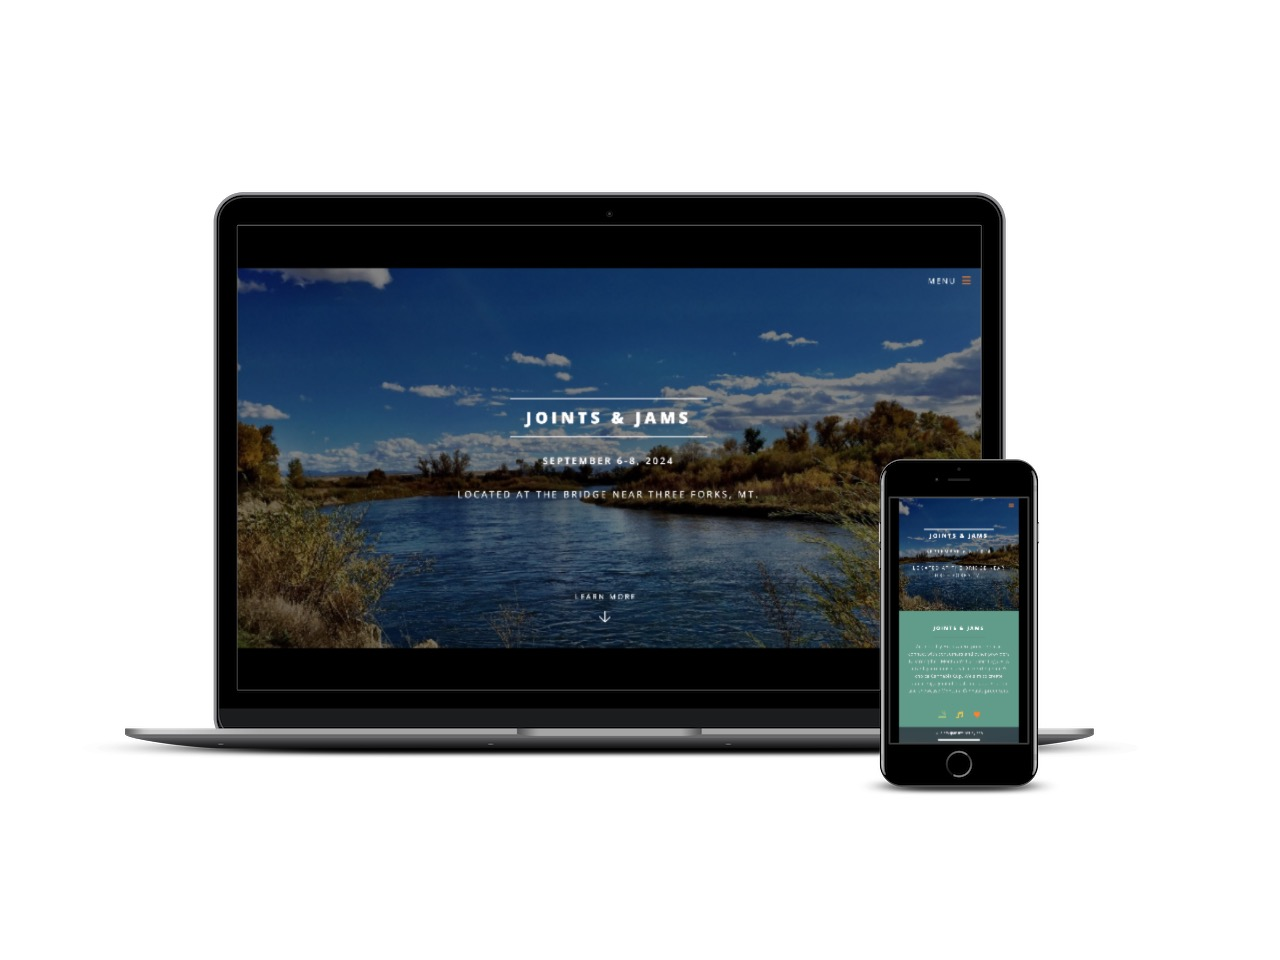
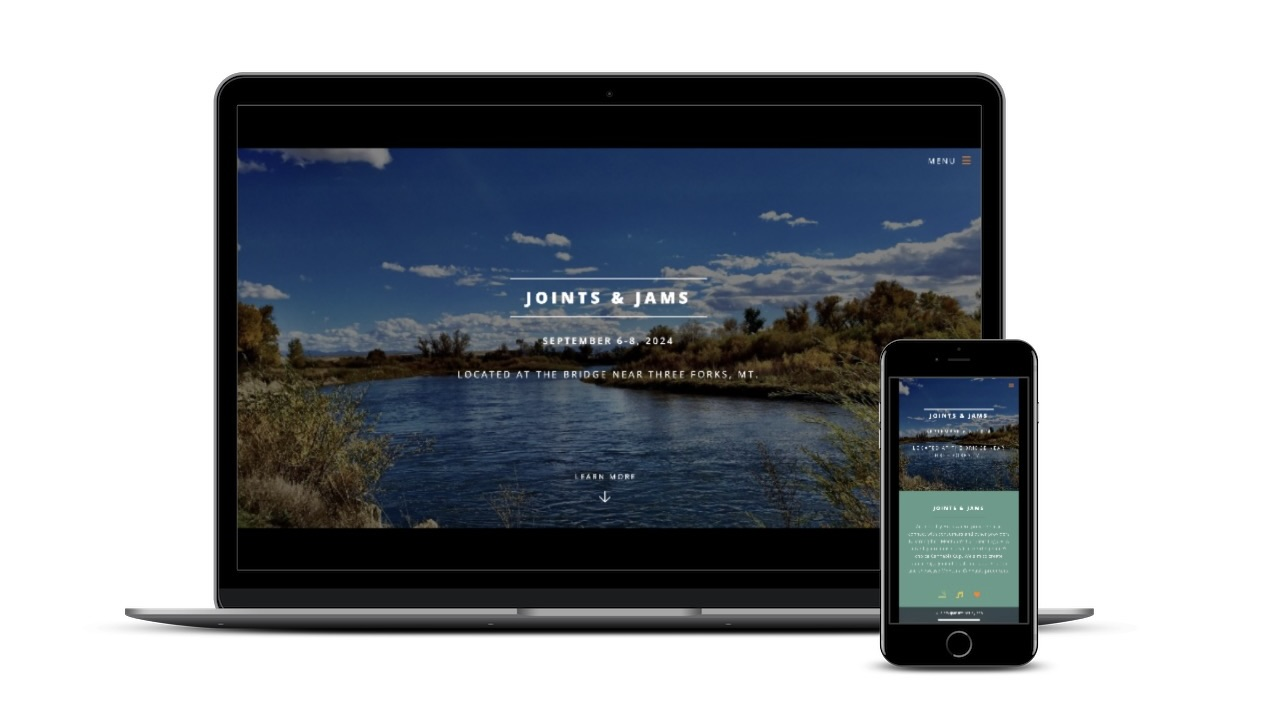
resized images and updated social links

diff --git a/src/components/footer/footer.css b/src/components/footer/footer.css
@@ -1,66 +1,66 @@
 .footer {
-    background-color: var(--container-color);
-    border-top: 1px solid rgba(0, 0, 0, 0.1);
+	background-color: var(--container-color);
+	border-top: 1px solid rgba(0, 0, 0, 0.1);
 }
 
 .footer__container {
-    padding: 2rem 0 6rem;
+	padding: 0.5rem 0 6rem;
 }
 
 .footer__title,
 .footer__link {
-    color: var(--title-color);
+	color: var(--title-color);
 }
 
 .footer__title {
-    text-align: center;
-    margin-bottom: var(--mb-2);
+	text-align: center;
+	margin-bottom: var(--mb-2);
 }
 
 .footer__link:hover {
-    color: var(--title-color-dark);
+	color: var(--title-color-dark);
 }
 
 .footer__list {
-    display: flex;
-    justify-content: center;
-    column-gap: 1.5rem;
-    margin-bottom: var(--mb-2);
+	display: flex;
+	justify-content: center;
+	column-gap: 1.5rem;
+	margin-bottom: var(--mb-2);
 }
 
 .footer__social {
-    display: flex;
-    justify-content: center;
-    column-gap: 1.25rem;
+	display: flex;
+	justify-content: center;
+	column-gap: 1.25rem;
 }
 
 .footer__social-link {
-    background-color: var(--title-color);
-    color: var(--container-color);
-    font-size: 1.125rem;
-    padding: 0.4rem;
-    border-radius: 0.5rem;
-    display: inline-flex;
+	background-color: var(--title-color);
+	color: var(--container-color);
+	font-size: 1.125rem;
+	padding: 0.4rem;
+	border-radius: 0.5rem;
+	display: inline-flex;
 }
 
 .footer__social-link:hover {
-    background-color: var(--title-color-dark);
+	background-color: var(--title-color-dark);
 }
 
 .footer__copy {
-    display: block;
-    margin-top: 4.5rem;
-    color: var(--title-color);
-    text-align: center;
-    font-size: var(--smaller-font-size);
+	display: block;
+	margin-top: 1.5rem;
+	color: var(--title-color);
+	text-align: center;
+	font-size: var(--regular-font-size);
 }
 
 /*=============== BREAKPOINTS ===============*/
 /* For large devices */
 @media screen and (max-width: 992px) {
-    .footer__social-link {
-        padding: 0.25rem;
-        border-radius: 0.25rem;
-        font-size: 1rem;
-    }
-  }
+	.footer__social-link {
+		padding: 0.25rem;
+		border-radius: 0.25rem;
+		font-size: 1rem;
+	}
+}

diff --git a/src/components/home/home.css b/src/components/home/home.css
@@ -59,15 +59,16 @@
 }
 
 .home__img {
-	background: url(../../assets//head-shot.png);
+	background: url(../../assets//bulb.png);
 	background-repeat: no-repeat;
 	background-position: center;
-	background-size: cover;
+	background-position-y: -3rem;
+	background-size: 155%;
 	box-shadow: inset 0 0 0 9px rgb(255 255 255 / 30%);
 	order: 1;
 	justify-self: center;
-	width: 300px;
-	height: 300px;
+	width: 350px;
+	height: 350px;
 	animation: profile__animate 8s ease-in-out infinite 1s;
 }
 

diff --git a/src/components/footer/Footer.jsx b/src/components/footer/Footer.jsx
@@ -37,7 +37,10 @@ const Footer = () => {
 					</a>
 				</div>
 
-				<span className="footer__copy">&#169;2022 Curran Concepts</span>
+				<span className="footer__copy">
+					<i className="uil uil-envelope"></i> Email:
+					austin.curran@proton.me
+				</span>
 			</div>
 		</footer>
 	);

diff --git a/src/components/home/Social.jsx b/src/components/home/Social.jsx
@@ -26,6 +26,14 @@ const Social = () => {
 			>
 				<i className="uil uil-twitter"></i>
 			</a>
+
+			<a
+				href="mailto:austin.curran@proton.me"
+				className="home__social-icon"
+				target="_blank"
+			>
+				<i className="uil uil-envelope"></i>
+			</a>
 		</div>
 	);
 };

diff --git a/src/components/header/Header.jsx b/src/components/header/Header.jsx
@@ -18,7 +18,7 @@ const Header = () => {
 		<header className="header">
 			<nav className="nav container">
 				<a href="index.html" className="nav__logo">
-					Curran Concepts
+					Austin Curran
 				</a>
 
 				<div className={Toggle ? "nav__menu show-menu" : "nav__menu"}>

diff --git a/src/components/skills/Backend.jsx b/src/components/skills/Backend.jsx
@@ -59,7 +59,7 @@ const Backend = () => {
 
 						<div>
 							<h3 className="skills__name">MongoDB</h3>
-							<span className="skills__level">Advanced</span>
+							<span className="skills__level">Intermediate</span>
 						</div>
 					</div>
 				</div>

diff --git a/src/components/skills/Frontend.jsx b/src/components/skills/Frontend.jsx
@@ -21,7 +21,7 @@ const Frontend = () => {
 
 						<div>
 							<h3 className="skills__name">JavaScript ES6+</h3>
-							<span className="skills__level">Intermediate</span>
+							<span className="skills__level">Advanced</span>
 						</div>
 					</div>
 

diff --git a/src/components/testimonials/Data.jsx b/src/components/testimonials/Data.jsx
@@ -1,6 +1,5 @@
 import Image1 from "../../assets/testimonial1.png";
 import Image2 from "../../assets/testimonial4.png";
-import Image3 from "../../assets/testimonial2.png";
 
 export const Data = [
 	{
